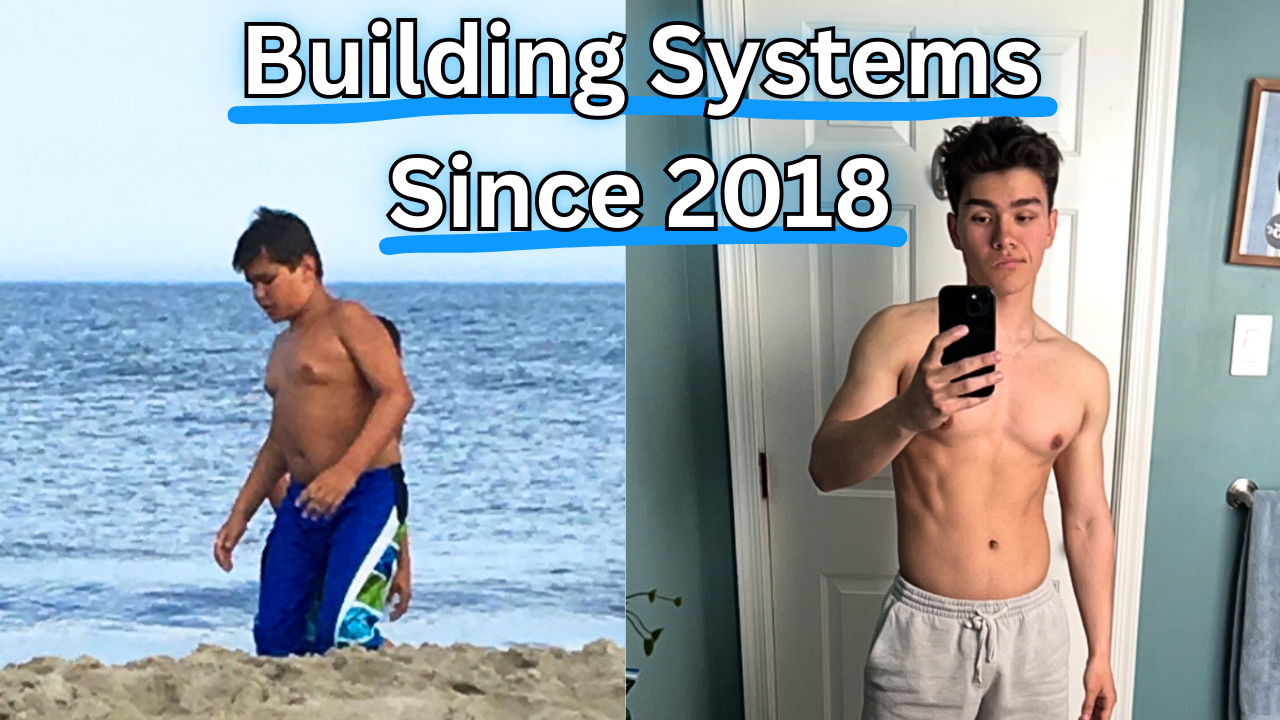
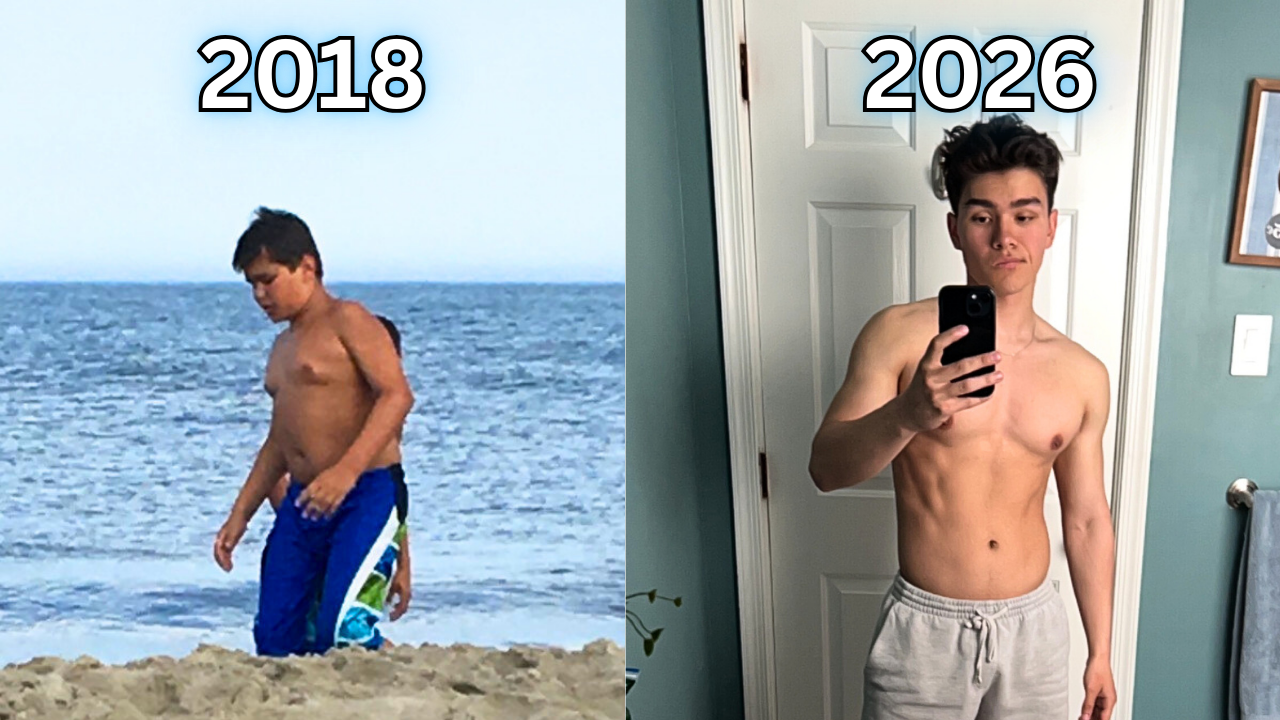
updated text/started phone minimization

Changed region(s): [[0.125, 0.0, 0.875, 0.3667]]

diff --git a/frontend/src/components/systems/ThirtyDayReset.jsx b/frontend/src/components/systems/ThirtyDayReset.jsx
@@ -115,13 +115,18 @@ function ThirtyDayReset({ onBack }) {
         }}
         >
           A simple execution system designed to help you reset your habits,
-          rebuild structure, and regain momentum — without relying on motivation.
+           rebuild structure, and regain momentum — without relying on motivation.
+           Built with fail-safes that let you recover from incomplete days instead of spiraling.
         </p>
 
         {/* PAID VERSION CTA */}
         <div
           style={{
-            marginBottom: "32px",
+            display: "flex",
+            flexDirection: "column",
+            alignItems: "flex-start",
+            gap: "6px",           // 🔥 controls closeness
+            marginBottom: "40px",
           }}
         >
           <a
@@ -155,19 +160,16 @@ function ThirtyDayReset({ onBack }) {
               GET THE FULL SYSTEM →
             </button>
           </a>
+
+          <span
+            style={{
+              fontSize: "0.75rem", // 🔽 slightly smaller
+              opacity: 0.6,
+            }}
+          >
+            Free version available below.
+          </span>
         </div>
-
-        <p
-          style={{
-            fontSize: "0.8rem",
-            opacity: 0.6,
-            marginTop: "8px",
-          }}
-        >
-          Free version available below.
-
-
-        </p>
 
 
         {/* VIDEO PLACEHOLDER */}
@@ -193,14 +195,27 @@ function ThirtyDayReset({ onBack }) {
 
         {/* WHAT THIS IS */}
         <h2 style={{ fontSize: "2rem", fontWeight: "800", marginBottom: "16px" }}>
-          What this system is
+          Why this works
         </h2>
 
-        <p style={{ maxWidth: "640px", lineHeight: "1.7", marginBottom: "40px" }}>
-          The 30 Day Reset is not a motivation challenge. It’s a lightweight
-          structure that helps you eliminate decision fatigue, focus on the
-          essentials, and rebuild consistency one day at a time.
-        </p>
+        <div style={{ maxWidth: "640px", marginBottom: "40px" }}>
+          <p style={{ lineHeight: "1.7", marginBottom: "16px" }}>
+            The 30 Day Reset works because you define the rules.
+          </p>
+
+          <p style={{ lineHeight: "1.7", marginBottom: "16px" }}>
+            Instead of forcing strict guidelines, the system adapts to your real life,
+            giving you the freedom to set your own non-negotiables, follow through even 
+            on rough days, and recover quickly when things don’t work out.
+          </p>
+
+          <p style={{ lineHeight: "1.7" }}>
+            This structure has been refined through my own personal use to prioritize
+            sustainability over intensity, making it possible to stay consistent
+            without burnout.
+          </p>
+        </div>
+
 
         {/* WHAT YOU GET */}
         <h2 style={{ fontSize: "2rem", fontWeight: "800", marginBottom: "16px" }}>
@@ -208,10 +223,11 @@ function ThirtyDayReset({ onBack }) {
         </h2>
 
         <ul style={{ lineHeight: "1.8", marginBottom: "48px" }}>
-          <li>Daily structure to remove guesswork</li>
+          <li>Daily tasks checklist</li>
           <li>Weekly reset checkpoints</li>
-          <li>A clear definition of “enough” each day</li>
-          <li>A simple way to rebuild momentum fast</li>
+          <li>"Once a week" freebies</li>
+          <li>Fall back system when previous day is incomplete</li>
+          <li>Structured day counter with complete/incomplete buttons</li>
         </ul>
 
         {/* FREE VERSION */}
@@ -228,8 +244,8 @@ function ThirtyDayReset({ onBack }) {
           </h3>
 
           <p style={{ maxWidth: "520px", marginBottom: "24px", opacity: 0.95 }}>
-            You can start using the core version of the 30 Day Reset for free.
-            No signup. No funnel. Just the structure.
+            You can start using the original version of the 30 Day Reset for free.
+            No signup just give it a go!
           </p>
 
           <a
@@ -247,10 +263,20 @@ function ThirtyDayReset({ onBack }) {
                 borderRadius: "8px",
                 fontWeight: "700",
                 cursor: "pointer",
+                transition: "transform 0.2s ease, opacity 0.2s ease",
+              }}
+              onMouseEnter={(e) => {
+                e.currentTarget.style.transform = "translateX(4px)";
+                e.currentTarget.style.opacity = "0.9";
+              }}
+              onMouseLeave={(e) => {
+                e.currentTarget.style.transform = "translateX(0)";
+                e.currentTarget.style.opacity = "1";
               }}
             >
-              ACCESS FREE VERSION →
+              FREE VERSION →
             </button>
+
           </a>
         </div>
       </section>

diff --git a/frontend/src/components/About.jsx b/frontend/src/components/About.jsx
@@ -45,48 +45,45 @@ function About() {
           {/* OPENING */}
           <p style={{ marginBottom: "28px", lineHeight: "1.8" }}>
             <strong>
-              “Building systems since 2018” doesn’t mean I had it figured out
+              “Building systems since 2018” doesn’t mean I had it all figured out
               early.
             </strong>{" "}
-            It means I got tired of relying on motivation — and started designing
-            structure instead.
+            It means I got tired of relying on all the fake motivation there is on the internet and started creating
+            structures instead.
           </p>
 
           <p style={{ marginBottom: "28px", lineHeight: "1.8" }}>
             For years, I tried to improve myself by pushing harder and waiting
-            for motivation to show up. Sometimes it worked. Most of the time, it
-            didn’t. Progress was inconsistent, fragile, and always reset when
+            for motivation kick in. There were times it worked but Most of the time, I wounded up burning out. 
+            My growth progress was inconsistent, fragile, and constantly restarting when
             life got messy.
           </p>
 
           <p style={{ marginBottom: "28px", lineHeight: "1.8" }}>
-            Everything changed when I stopped chasing motivation and started
-            building structure. Clear rules. Fewer decisions. Systems that worked
+            Everything changed when I put all my focus on building systems, that help me reach my goals. Clear rules. Fewer decisions. These systems worked
             even on days I didn’t feel like showing up.
           </p>
 
           <p style={{ marginBottom: "28px", lineHeight: "1.8" }}>
-            Over time, those systems helped me rebuild my habits, discipline, and
-            direction. This site exists to share what I’ve learned — not hype or
-            inspiration, but practical systems that actually hold up in real
-            life.
+            Over time, the systems I built helped me rebuild my habits, discipline, and
+            direction. This site exists to share what I’ve learned and how you can successful build
+            your own systems that actually work rather than relying on motivation.
           </p>
 
           <p style={{ marginBottom: "28px", lineHeight: "1.8" }}>
             Studying computer science helped me understand something deeper than
             just code: how structure, constraints, and feedback loops shape
-            behavior. That way of thinking now drives everything I build here.
+            behavior. That way of thinking now drives everything I build for Improving JB.
           </p>
 
           <p style={{ marginBottom: "28px", lineHeight: "1.8" }}>
-            Bands, the stick figure, started as a simple drawing and became
-            something more. It represents execution without emotion. Action
-            before overthinking. Progress built one brick at a time.
+            Bands, the stick figure that's everywhere on this site, started as a simple drawing and became
+            something more to me. It represents my inner thoughts and dreams. The version of myself that was too scared to act.
           </p>
 
           <p style={{ lineHeight: "1.8" }}>
-            Bands isn’t a mascot. It’s a reminder of who you become when you stop
-            waiting to feel ready and start building anyway.
+            Bands isn’t a mascot. It’s a reminder of who you can truly become when you stop
+            waiting to feel ready and start building regardless of what's happening in life.
           </p>
         </div>
       </section>

diff --git a/frontend/src/components/Home.jsx b/frontend/src/components/Home.jsx
@@ -45,7 +45,8 @@ const heroStyles = {
   title: {
     fontSize: "4rem",
     fontWeight: "800",
-    marginBottom: "12px",
+    marginBottom: "0px",
+    lineHeight: "1.0",  
     color: "white",
     WebkitTextStroke: "2px black",
     letterSpacing: "0.8px",
@@ -54,14 +55,17 @@ const heroStyles = {
       0 0 12px rgba(110, 193, 228, 0.4),
       0 0 18px rgba(110, 193, 228, 0.25)
     `,
-    whiteSpace: "nowrap",
+  },
+  lineWrap: {
+    display: "inline-block",
+    marginBottom: "2px", 
   },
   underline: {
     height: "12px",
     width: "102%",
     background: "#2da6da",
     borderRadius: "6px",
-    marginTop: "-25px",
+    marginTop: "-6px",
     opacity: 0.85,
     transform: "rotate(-0.6deg)",
   },
@@ -103,7 +107,7 @@ const heroStyles = {
         style={{
           background: "#afb1b3ff",
           width: "100%",
-          padding: "180px 0",
+          padding: "130px 0",
           position: "relative",
           overflow: "hidden",
         }}
@@ -128,13 +132,20 @@ const heroStyles = {
             <div style={{ maxWidth: "520px" }}>
               {/* TITLE */}
               <div style={heroStyles.titleWrap}>
-                <h1 style={heroStyles.title}>KEEP BUILDING.</h1>
-                <div style={heroStyles.underline} />
+                <div style={heroStyles.lineWrap}>
+                  <h1 style={heroStyles.title}>IMPROVE</h1>
+                  <div style={heroStyles.underline} />
+                </div>
+
+                <div style={heroStyles.lineWrap}>
+                  <h1 style={heroStyles.title}>EVERYDAY</h1>
+                  <div style={heroStyles.underline} />
+                </div>
               </div>
 
               {/* SUBTITLE */}
               <p style={heroStyles.subtitle}>
-                Stack wins every day
+                Build Discipline. Stack Wins. Repeat.
               </p>
 
               {/* CTA */}
@@ -149,7 +160,7 @@ const heroStyles = {
                     e.currentTarget.style.transform = "translateX(0)";
                   }}
                 >
-                  Productivity Hacks →
+                  Start Improving →
                 </button>
               </div>
             </div>
@@ -222,7 +233,7 @@ const heroStyles = {
             marginBottom: "16px",
           }}
         >
-          NEW PRODUCTIVITY HACK
+          NEW PRODUCTIVITY SYSTEM
         </p>
 
         <h2
@@ -246,8 +257,8 @@ const heroStyles = {
             color: "#111",
           }}
         >
-          Improving JB&apos;s schedule planner that makes planning and
-          getting your goals done <strong>ACTUALLY achievable</strong>.
+          Improving JB&apos;s daily nonnegotiables tracker that turns discipline into consistency and
+          makes progress <strong>ACTUALLY achievable</strong>.
         </p>
 
         <button

diff --git a/frontend/src/components/Systems.jsx b/frontend/src/components/Systems.jsx
@@ -113,7 +113,7 @@ if (activeSystem === "30-day-reset") {
               textWrap: 0,
             }}
           >
-            Structured frameworks designed to turn intention into consistent action.
+            Structured systems/programs designed to turn intention into consistent action.
           </p>
 
         </section>
@@ -139,8 +139,8 @@ if (activeSystem === "30-day-reset") {
           >
             {[
               { title: "30 Day Reset", live: true },
-              { title: "Focus System", live: false },
-              { title: "Consistency System", live: false },
+              { title: "Laser Focus", live: false },
+              { title: "Daily Execution", live: false },
             ].map((system, i) => (
               <div key={i} style={{ textAlign: "center" }}>
                 {system.title === "30 Day Reset" ? (

diff --git a/frontend/src/index.css b/frontend/src/index.css
@@ -17,3 +17,29 @@ a {
 a:visited {
   color: white;
 }
+
+@media (max-width: 600px) {
+  nav {
+    padding: 12px 16px !important;
+  }
+}
+
+@media (max-width: 600px) {
+  nav img {
+    width: 44px !important;
+    height: 44px !important;
+  }
+}
+
+@media (max-width: 600px) {
+  nav span {
+    font-size: 1.6rem !important;
+  }
+}
+
+@media (max-width: 600px) {
+  nav > div:last-child {
+    gap: 10px !important;
+  }
+}
+
